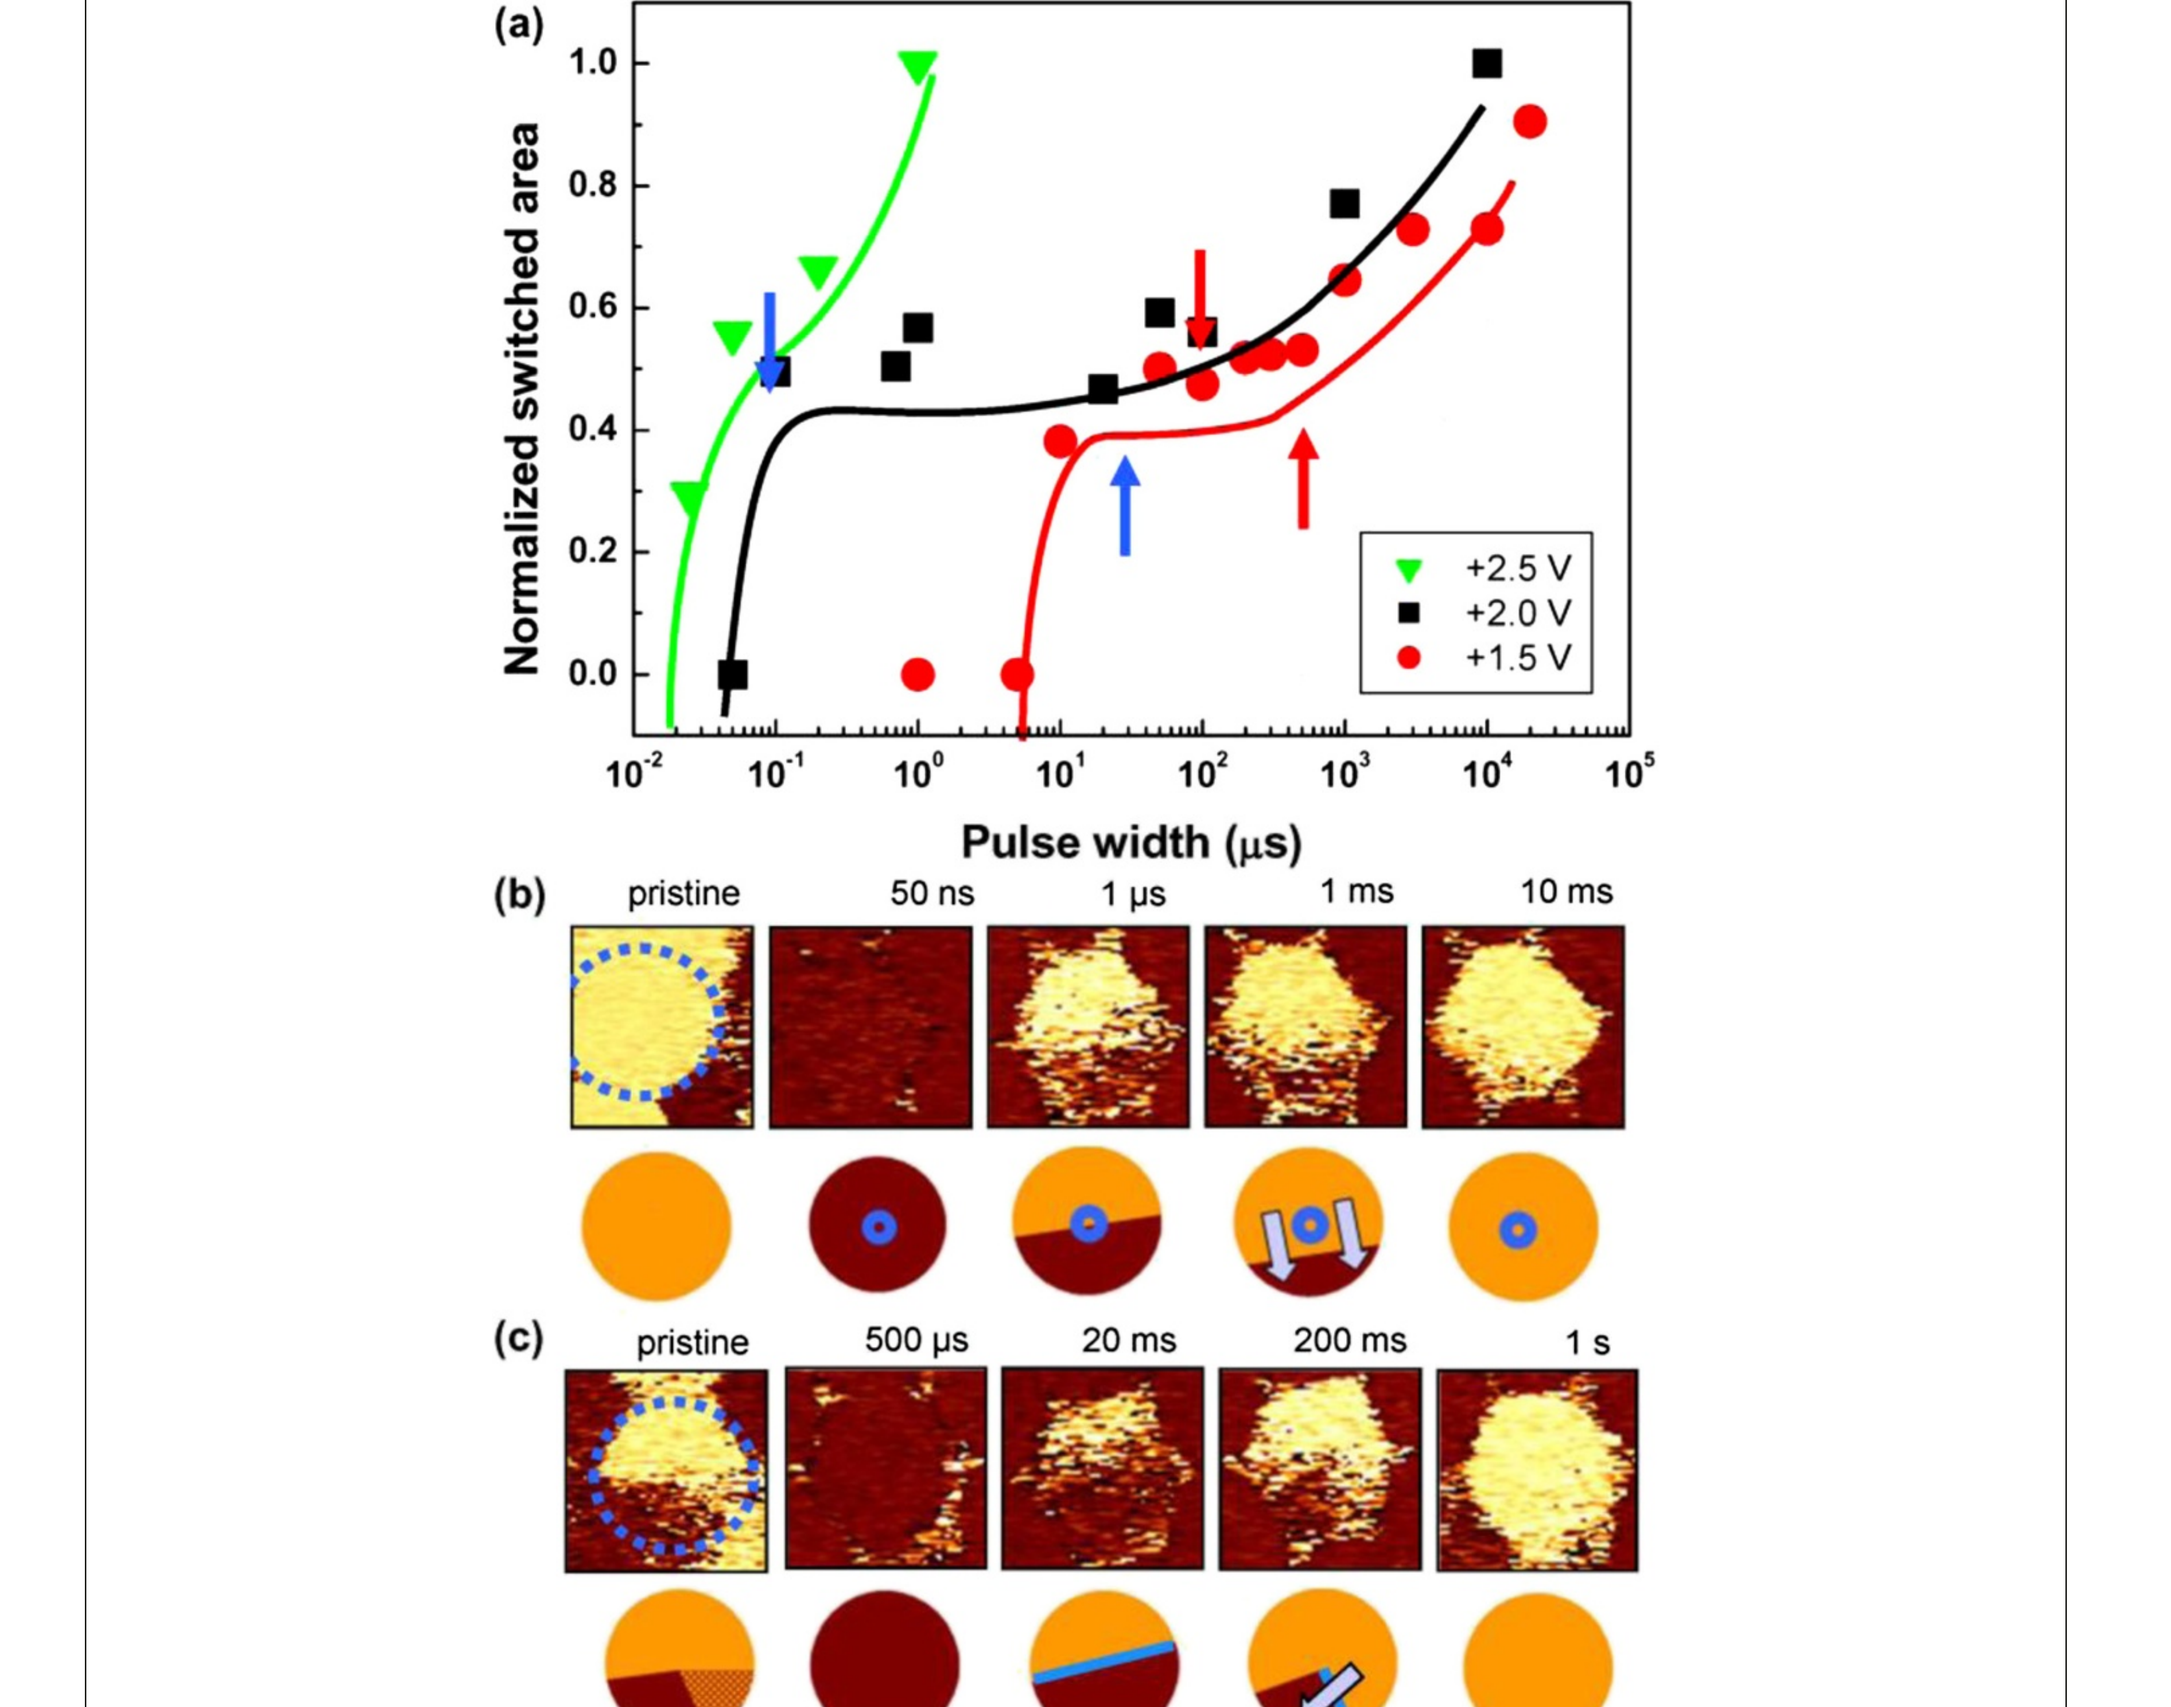
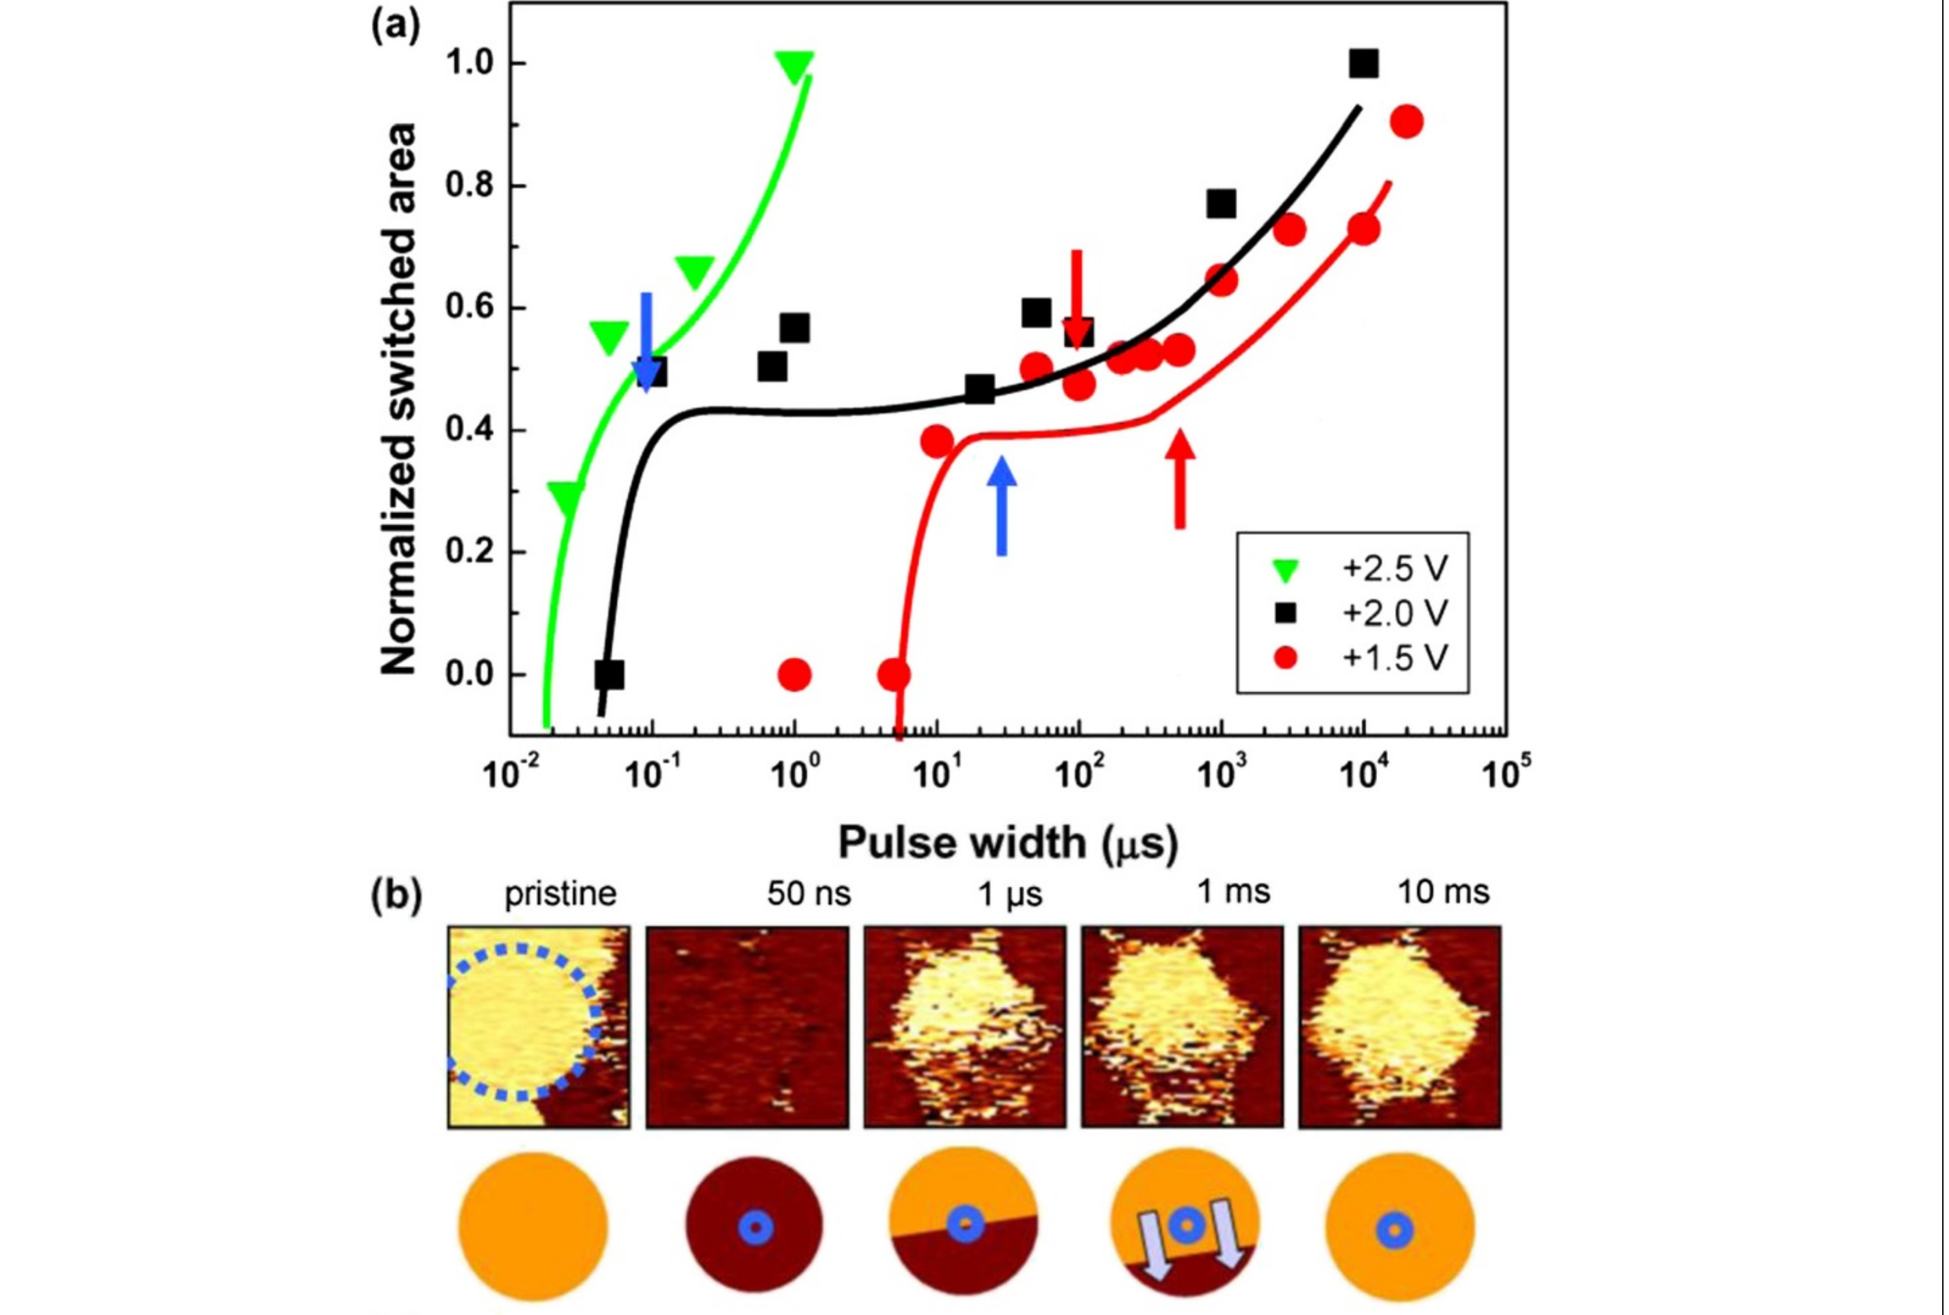
Finalize Module 04 Figure QA

Changed region(s): [[0.1868, 0.0, 0.7785, 1.0], [0.9965, 0.0, 1.0, 1.0]]

diff --git a/modules/pinning-creep.html b/modules/pinning-creep.html
@@ -52,7 +52,7 @@
 
 <div class="src"><div class="head"><b>原文 A · Kim et al. 2014</b>　<span class="rule">Nano Convergence 1:24 · published PDF pp.1–3 · 跨页恢复阅读顺序；完整 paragraphs</span></div><blockquote class="source-text"><p>However, on considerably decreasing the capacitor size, one local defect may significantly influence the overall domain wall motion. In fact, recent study [7] has shown that the domain wall in nanocapacitors propagates in contact with the capacitor boundary, along which local defects are likely to be present to a larger extent hindering the domain wall motion. Thus, the domain wall pinning can become a more important issue as the capacitor size decreases, and this is directly relevant to the reliability of the device performance. However, to our best knowledge, domain wall pinning has not been reported so far in nanocapacitors of such size that can be feasible for high-memory density devices. Here, we show an unusual domain wall pinning in ferroelectric nanocapacitors and explore its origin using piezoresponse force microscopy (PFM).</p><p>Initially, we switched pristine domain structures of nanocapacitors as upwards. This process is referred to as background poling. After the background poling, a series of +2 V pulses with different pulse widths was applied to generate downward polarized domain inside the background poled capacitor. Then, PFM measurements were carried out over the area. As previously reported [1,6,7], the domain wall after the nucleation propagates on increasing the pulse width. However, the domain wall motion is occasionally hindered as shown in Figure 1(a). The normalized switched area temporarily remains constant at a value of around 0.5 [pinning: blue arrows of Figure 1(a)], and then starts to increase again [de-pinning: red arrows of Figure 1(a)] under the applied electric field. This pinning/de-pinning phenomenon was observed only for relatively low amplitude of the applied bias [see for contrast the green solid line of Figure 1(a), plotting data for higher pulse amplitude of 2.5 V]. It has been well known that the pinning procedure is dependent on local point defects, which can hinder the movement of a domain wall [6,8,9-11] and could exist in principle anywhere inside the capacitors [1,12]. However, if there is enough energy is provided to overcome the barrier height imposed by the defects, the domain wall can move through these defects, i.e., a de-pinning phenomenon occurs. As a result, the domain wall motion strongly depends on the correlation between the applied bias pulses and the barrier height of the local defect states. The data of Figure 1(a) demonstrates this behavior.</p><p>This switching behavior results can also be illustrated through the PFM phase images shown in Figure 1(b). On increasing pulse width, the domain wall moves from the top side to the bottom side of capatiro imaged in this figure. However, at the middle point [see blue circle in Figure 1(b)], the domain wall motion temporarily ceases, and then the wall moves again towards the bottom part of the figure, till the initial downward polarization state of the capacitor is fully recovered (as marked by the blue-dotted circle). In this case, we believe that there is a local point defect at the center of the capacitor similar to previous reports [6,8,9-11].</p></blockquote><div class="note">作者原文里的语法/拼写问题（例如 “if there is enough energy is provided”, “capatiro”）保留，因为这里展示的是 published PDF 原句。物理上，最重要的是<b>curve plateau 与 real-space pause 对上了</b>：这比只看一条 switched-area 曲线更能支持局域势垒解释。</div></div>
 
-<figure class="fig"><a href="../assets/pinning-creep/kim2014-fig1-pinning.png" target="_blank" rel="noopener"><img src="../assets/pinning-creep/kim2014-fig1-pinning.png" alt="Kim 2014 Figure 1: switched-area plateaus and PFM sequences showing domain-wall pinning and de-pinning"></a><figcaption class="cap"><b>Fig. 1 · plateau 不只是曲线特征：它有空间位置。</b><span class="zoom">点击 Figure 看 600 DPI 原尺寸</span><br>(a) 蓝箭头是 pinning、红箭头是 de-pinning；(b) 对应一种局域 point-defect-like pause；(c) 墙的停滞/继续传播又与 pristine domain structure 的位置关系相关。图的真正价值是把“统计曲线”与“墙在哪里停”绑定起来。</figcaption></figure>
+<figure class="fig"><a href="../assets/pinning-creep/kim2014-fig1-pinning.png" target="_blank" rel="noopener"><img src="../assets/pinning-creep/kim2014-fig1-pinning.png" alt="Kim 2014 Figure 1: switched-area plateaus and PFM sequences showing domain-wall pinning and de-pinning"></a><figcaption class="cap"><b>Fig. 1(a,b) · switched-area plateau 与 PFM pinning image。</b><span class="zoom">点击 Figure 看 600 DPI 原尺寸</span><br>(a) 蓝/红箭头分别标出 pinning 与 de-pinning；(b) 把曲线平台对应回真实空间中的 PFM 停滞—再传播序列与 local point defect。第二类 pristine-domain-associated pinning 由紧邻的作者原文继续给出，因此这里不保留旧资产中被截断的 panel (c)。</figcaption></figure>
 
 <div class="src"><div class="head"><b>原文 B · Kim et al. 2014</b>　<span class="rule">published PDF pp.3–5 · 完整 paragraphs</span></div><blockquote class="source-text"><p>However, we also observed a different type of domain wall hindrance as shown in Figure 1(c) for another nanocapacitor. In this case, intriguingly, the domain wall motion and the pinning seem to follow the pristine domain structure underlying the nanocapacitor. The domain wall is first pinned at the center of the capacitor [see blue solid line in the schematics of Figure 1(c): 20 ms], which is close to the domain boundary of the pristine domains. After the de-pinning, the right part of the domain wall moves [see blue solid line in the schematics of Figure 1(c): 200 ms] and then the whole region of the capacitor is finally switched to a downward polarization. This domain wall propagation seems to have a particular relationship with the pristine domain structure. The pristine domain structure shows three distinct sections of domains (upper half part: downward polarization, left lower quarter part: upward polarization, and right lower quarter part: mixed of up- and downward polarization). Even though there are pinning and de-pinning processes, pronounced bowing was not observed in both cases.</p><p>In summary, we have investigated domain wall pinning and its origins in ferroelectric nanocapacitors using piezoresponse force microscopy. Similar to previous reports, the observed domain wall pinning was observed due to the existence of local point defects. However, we also observed another type of the pinning source, i.e., pristine domain structures. It was found that the steps of the domain wall propagation are dependent on the pristine domain structure because locally different defect states in the place of the pristine domains can affect the domain wall motion. In both cases, pinning and de-pinning processes were observed without observation of significant domain wall bowing. The observed results can provide further information on the domain wall motion in nanocapacitors and could improve the reliability of nanoscale ferroelectric memory devices.</p></blockquote><div class="note"><b>第二类 pinning 的措辞要谨慎。</b>作者不是说“domain itself 是缺陷”，而是把效应归于与 pristine-domain positions 相关、background poling 后仍留下的 immobile/local defect states。并且两种 pinning 都不要求出现明显 wall bowing。</div></div>
 <div class="claims"><div class="claim"><h3>作者真正证明了什么</h3><p>纳米电容中可以直接观察到局域 wall pause 与后续 de-pinning；至少有 point-defect-like 与 pristine-domain-associated 两类来源；单个局域势垒在小器件中足以显著影响整体 switching trajectory。</p></div><div class="claim"><h3>作者没有证明什么</h3><p>文中的 “de-pinning” 是越过具体局域 barrier 的描述，并未建立 thermodynamic critical threshold、β/ζ/ν、finite-size scaling 或 universality class。</p></div></div>

diff --git a/assets/pinning-creep/README.md b/assets/pinning-creep/README.md
@@ -2,13 +2,13 @@
 
 Authoritative sources are the project Google Drive PDFs. Final lesson policy:
 
-- Source passages are rendered as selectable HTML text, not screenshots.
+- Source passages are selectable HTML text, not screenshots.
 - PDF line wraps/hyphenation may be normalized only to restore reading order; wording is not rewritten inside source blocks.
-- Figures are rendered from the authoritative PDFs at 600 DPI, cropped to the complete intended figure/panels, visually inspected, and frozen as lossless PNG.
-- GitHub Pages only validates and deploys frozen local assets; it does not download papers, crop figures, or recompress images.
+- Figures are lossless PNG assets derived from the authoritative PDFs at 600 DPI; the deployed Pages workflow never downloads papers or generates/crops figures.
+- Final Figure QA checks crop completeness, panel/axis/legend readability, and instructional relevance.
 
 Frozen figures:
 
-- `tybell2002-fig3-creep.png` — Tybell et al. 2002, Fig. 3, wall speed vs inverse field / creep law.
-- `paruch2005-fig3-roughness.png` — Paruch et al. 2005, Fig. 3(a,b), B(L) scaling / roughness exponent. Final crop QA: 2150×920 lossless PNG; neighboring page text removed while preserving both panels, axes, labels, legend, and ζ values.
-- `kim2014-fig1-pinning.png` — Kim et al. 2014, Fig. 1(a–c), switched-area plateau and PFM pinning/de-pinning sequences.
[3 lines of base64/hex data omitted]
